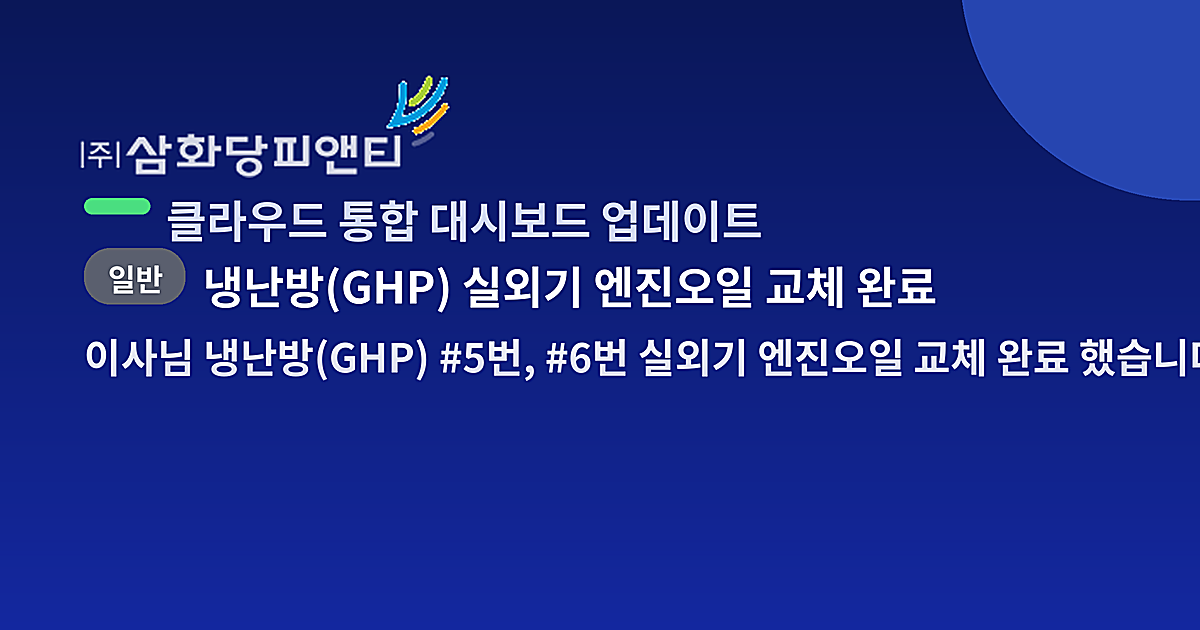
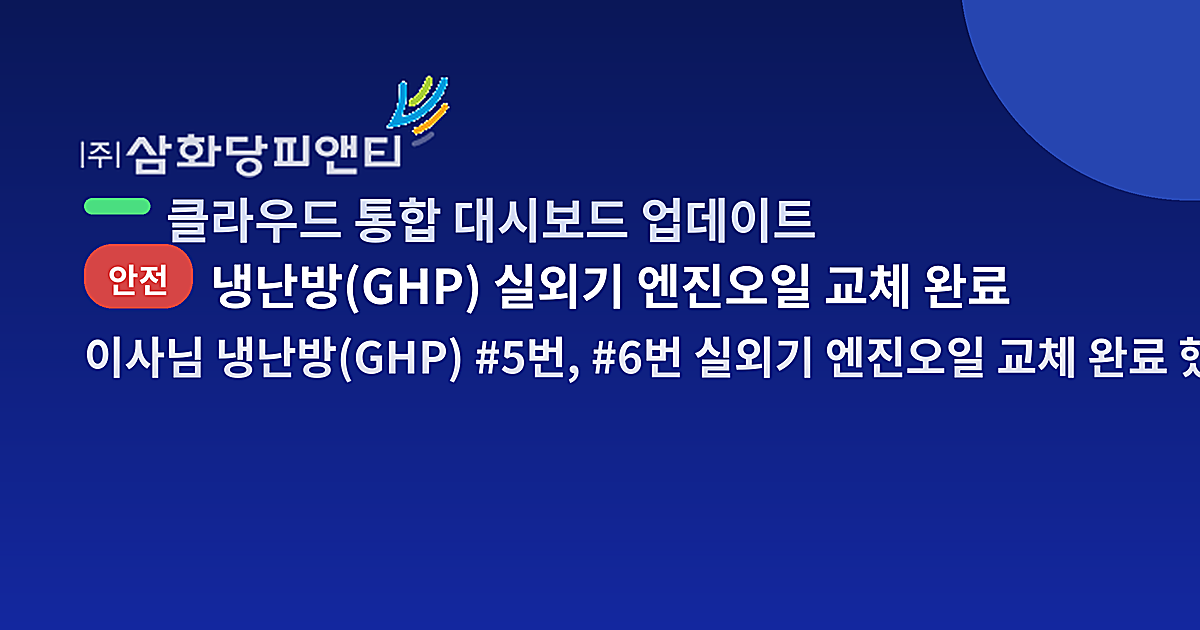
업데이트

Changed region(s): [[0.0617, 0.3016, 1.0, 0.6032]]

diff --git a/share/미리보기_만들기.html b/share/미리보기_만들기.html
@@ -93,21 +93,21 @@ function draw(){
   ctx.textBaseline='top';
   // accent bar + brand
   ctx.fillStyle='#4ADE80';rr(84,198,66,16,8);ctx.fill();
-  ctx.fillStyle='rgb(205,214,240)';ctx.font='700 44px Pretendard, "Malgun Gothic", sans-serif';
-  ctx.fillText('클라우드 통합 대시보드 업데이트',166,182);
-  // chip + title (글자 확대)
-  ctx.font='800 30px Pretendard, "Malgun Gothic", sans-serif';
-  const cw=ctx.measureText(cat).width+46;
-  ctx.fillStyle=CATCOL[cat];rr(84,248,cw,56,26);ctx.fill();
+  ctx.fillStyle='rgb(205,214,240)';ctx.font='700 48px Pretendard, "Malgun Gothic", sans-serif';
+  ctx.fillText('클라우드 통합 대시보드 업데이트',166,178);
+  // chip + title (글자 더 확대)
+  ctx.font='800 33px Pretendard, "Malgun Gothic", sans-serif';
+  const cw=ctx.measureText(cat).width+48;
+  ctx.fillStyle=CATCOL[cat];rr(84,244,cw,64,28);ctx.fill();
   ctx.fillStyle='#fff';ctx.fillText(cat,84+24,262);
-  ctx.font='800 44px Pretendard, "Malgun Gothic", sans-serif';
-  ctx.fillText(document.getElementById('title').value,84+cw+18,258);
-  // body (글자 확대)
+  ctx.font='800 48px Pretendard, "Malgun Gothic", sans-serif';
+  ctx.fillText(document.getElementById('title').value,84+cw+18,254);
+  // body (글자 더 확대)
   const shades=['#FFFFFF','rgb(235,240,252)','rgb(225,232,248)','rgb(210,218,240)','rgb(196,206,232)'];
   const lines=document.getElementById('body').value.split('\n').filter(l=>l.trim()!=='').slice(0,5);
-  ctx.font='700 40px Pretendard, "Malgun Gothic", sans-serif';
-  let y=326;
-  lines.forEach((ln,i)=>{ctx.fillStyle=shades[Math.min(i,4)];ctx.fillText(ln,84,y);y+=62;});
+  ctx.font='700 44px Pretendard, "Malgun Gothic", sans-serif';
+  let y=322;
+  lines.forEach((ln,i)=>{ctx.fillStyle=shades[Math.min(i,4)];ctx.fillText(ln,84,y);y+=64;});
   // fade overlay (아래로 갈수록 흐려짐)
   const y0=300,y1=566; const cTop=bgcol(y0),cBot=bgcol(y1);
   const g=ctx.createLinearGradient(0,y0,0,y1);

diff --git a/index.html b/index.html
@@ -13,15 +13,9 @@
      ▶ 카드 이미지는 share/og-image.png 입니다. -->
 <meta property="og:type" content="website" />
 <meta property="og:site_name" content="(주)삼화당피앤티 클라우드 통합 대시보드" />
-<<<<<<< HEAD
 <meta property="og:title" content="" />
 <meta property="og:description" content="" />
-<meta property="og:image" content="https://kinof2018-create.github.io/HP-IN-MH4/share/og-image.png?v=0ccd654252" />
-=======
-<meta property="og:title" content="📢 [삼화당피앤티] 이사님 GHP 냉난방 #5번, #6번 엔진오일 교환 완료 했습니다." />
-<meta property="og:description" content="[업데이트 내용] 최신 수리 이력을 최상단에 배치" />
-<meta property="og:image" content="https://kinof2018-create.github.io/HP-IN-MH4/share/og-image.png?v=b6f5229b13" />
->>>>>>> fe0a7b36c4a98cb051da97e1e48e7e18e4723e98
+<meta property="og:image" content="https://kinof2018-create.github.io/HP-IN-MH4/share/og-image.png" />
 <meta property="og:image:width" content="1200" />
 <meta property="og:image:height" content="630" />
 <meta property="og:url" content="https://kinof2018-create.github.io/HP-IN-MH4/" />

diff --git a/og/generate.py b/og/generate.py
@@ -84,20 +84,20 @@ def draw_image(cat, title, body):
     logo=make_white_logo(); lh=104*SS; lw=int(logo.size[0]*lh/logo.size[1])
     L=logo.resize((lw,lh),Image.LANCZOS); img.paste(L,(80*SS,74*SS),L)
     d.rounded_rectangle([84*SS,198*SS,150*SS,214*SS],radius=8*SS,fill="#4ADE80")
-    d.text((166*SS,186*SS),"클라우드 통합 대시보드 업데이트",font=F(44*SS),fill=(205,214,240))
-    # 카테고리 칩 + 제목 (글자 확대)
+    d.text((166*SS,182*SS),"클라우드 통합 대시보드 업데이트",font=F(48*SS),fill=(205,214,240))
+    # 카테고리 칩 + 제목 (글자 더 확대)
     col=CAT_COLOR.get(cat,"#5A5F6E")
-    cw=int(d.textlength(cat,font=F(30*SS)))+46*SS
-    d.rounded_rectangle([84*SS,248*SS,84*SS+cw,304*SS],radius=26*SS,fill=col)
-    d.text((84*SS+24*SS,256*SS),cat,font=F(30*SS),fill="#FFFFFF")
-    d.text((84*SS+cw+18*SS,252*SS),title,font=F(44*SS),fill="#FFFFFF")
-    # 본문 (아래로 갈수록 페이드) — 글자 확대
-    y=326*SS
+    cw=int(d.textlength(cat,font=F(33*SS)))+48*SS
+    d.rounded_rectangle([84*SS,244*SS,84*SS+cw,308*SS],radius=28*SS,fill=col)
+    d.text((84*SS+24*SS,254*SS),cat,font=F(33*SS),fill="#FFFFFF")
+    d.text((84*SS+cw+18*SS,248*SS),title,font=F(48*SS),fill="#FFFFFF")
+    # 본문 (아래로 갈수록 페이드) — 글자 더 확대
+    y=322*SS
     for i,ln in enumerate(body[:5]):
         shade=[255,(235,240,252),(225,232,248),(210,218,240),(196,206,232)][min(i,4)]
         fill=(255,255,255) if shade==255 else shade
-        d.text((84*SS,y),ln,font=F(40*SS),fill=fill)
-        y+=62*SS
+        d.text((84*SS,y),ln,font=F(44*SS),fill=fill)
+        y+=64*SS
     # 페이드 음영
     arr=np.asarray(img).astype(np.float32)
     y0,y1=300*SS,566*SS
@@ -110,22 +110,19 @@ def draw_image(cat, title, body):
     img.save(OUT,"PNG")
 
 def update_index(title, body):
+    # 카톡 카드에서 이미지 아래에 뜨는 '제목/설명 문구'는 항상 비워 둔다.
+    #  (모든 정보는 위의 이미지 안에 크게 표시됨 · 맨 아래 도메인 줄은 카톡이 자동 표시하여 제거 불가)
+    # ★ 재발 방지: og:image 주소를 매번 바꾸지 않는다(고정). 그래야 자동생성이 index.html 을
+    #   건드리지 않아, 자동 커밋과 사용자 Push 사이의 '병합 충돌'이 생기지 않는다.
+    #   → 이미 비어 있으면 파일을 다시 쓰지 않는다(변경 없음 = 커밋/충돌 없음).
     if not os.path.exists(INDEX): return
-    s=open(INDEX,encoding="utf-8").read()
-    # 카톡 카드에서 이미지 아래에 뜨는 제목/설명 문구를 없애기 위해 비워 둔다
-    # (모든 정보는 위의 이미지 안에 크게 표시됨 · 도메인 줄은 카톡이 자동 표시하여 제거 불가)
-    og_title = ""
-    og_desc  = ""
-    # ★ 이미지 캐시 무력화: 이미지가 바뀌면 og:image 주소도 바뀌도록 내용 해시를 ?v= 로 붙임
-    ver = hashlib.md5(open(OUT,'rb').read()).hexdigest()[:10]
-    mimg = re.search(r'<meta property="og:image" content="([^"]*)"', s)
-    if mimg:
-        base = mimg.group(1).split('?')[0]
-        newimg = html.escape(base+'?v='+ver, quote=True)
-        s=re.sub(r'(<meta property="og:image" content=")[^"]*(")', lambda m:m.group(1)+newimg+m.group(2), s, count=1)
-    s=re.sub(r'(<meta property="og:title" content=")[^"]*(")',      lambda m:m.group(1)+og_title+m.group(2), s, count=1)
-    s=re.sub(r'(<meta property="og:description" content=")[^"]*(")',lambda m:m.group(1)+og_desc +m.group(2), s, count=1)
-    open(INDEX,"w",encoding="utf-8").write(s)
+    s = open(INDEX, encoding="utf-8").read()
+    orig = s
+    # 중복이 있어도 모든 og:title / og:description 을 빈 값으로 만든다(안전)
+    s = re.sub(r'(<meta property="og:title" content=")[^"]*(")',       r'\1\2', s)
+    s = re.sub(r'(<meta property="og:description" content=")[^"]*(")', r'\1\2', s)
+    if s != orig:
+        open(INDEX, "w", encoding="utf-8").write(s)
 
 if __name__ == "__main__":
     cat,title,body = parse_txt()
